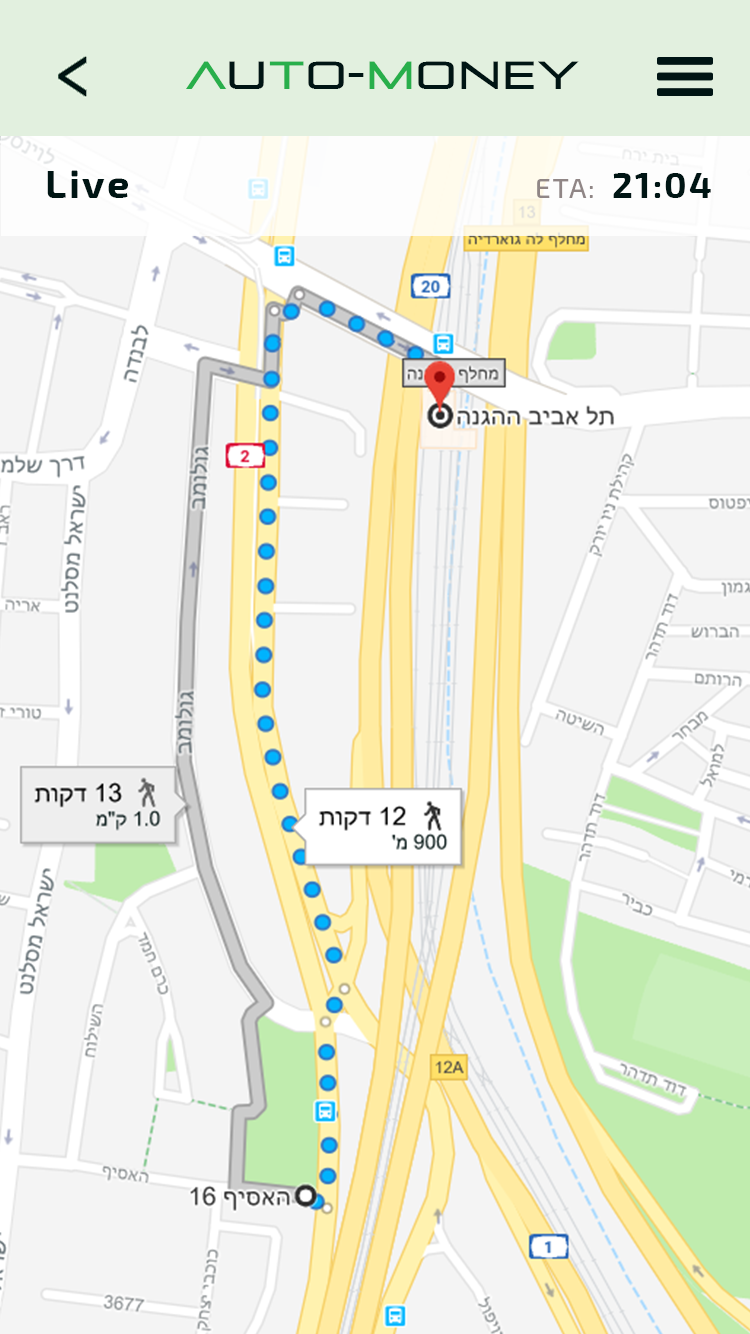
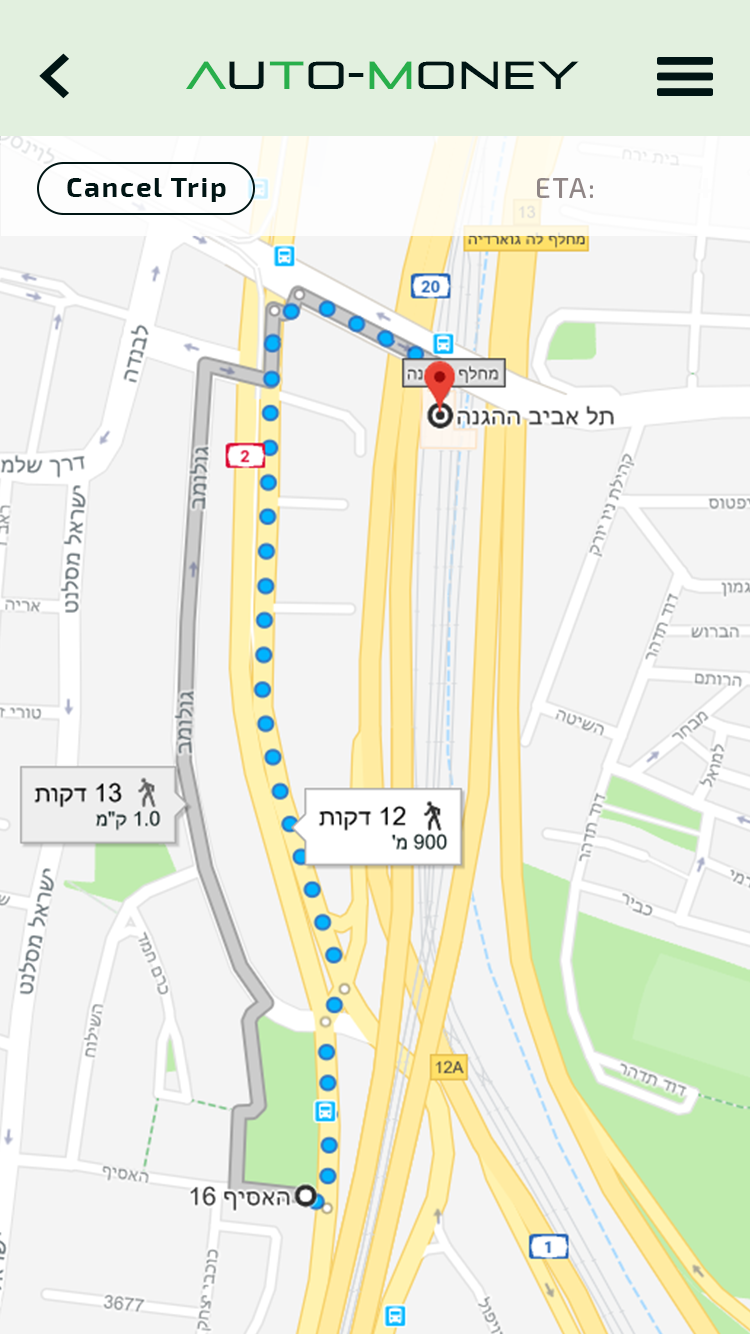
Added side menu

Changed region(s): [[0.0307, 0.1229, 0.3373, 0.1537], [0.7973, 0.1229, 0.9507, 0.1537], [0.0613, 0.0307, 0.1227, 0.0922]]

diff --git a/index.css b/index.css
@@ -59,7 +59,7 @@ body::before {
     opacity: 1;
 }
 
-.screen.active.no-toobar-buttons {
+.screen.active.no-toolbar-buttons {
     z-index: 6;
 }
 
@@ -108,6 +108,95 @@ body::before {
     background-image: url('images/screens/thank-you.png');
 }
 
+@keyframes fade-in {
+    0% {
+        opacity: 0;
+        z-index: 4;
+    }
+
+    100% {
+        opacity: 1;
+        z-index: 4;
+    }
+}
+
+@keyframes fade-out {
+    0% {
+        opacity: 1;
+        z-index: 4;
+    }
+
+    99% {
+        opacity: 0;
+        z-index: 4;
+    }
+
+    100% {
+        opacity: 0;
+        z-index: -1;
+    }
+}
+
+@keyframes slide-left {
+    from { left: 100%; }
+    to { left: 33.877777777777%; }
+}
+
+@keyframes slide-right {
+    from { left: 33.877777777777%; }
+    to { left: 100%; }
+}
+
+@keyframes make-visible {
+    0% {
+        visibility: hidden;
+    }
+
+    99% {
+        visibility: hidden;
+    }
+
+    100% {
+        visibility: visible;
+    }
+}
+
+#side-menu {
+    background-color: #00000088;
+    border: #777 solid 1px;
+    position: absolute;
+    top: 0; bottom: 0;
+    left: 0; right: 0;
+    overflow: hidden;
+    z-index: 4;
+    animation: make-visible 2s forwards, fade-out 1s forwards;
+    animation-delay: 0s, 1s;
+}
+
+#side-menu.active {
+    z-index: -1;
+    animation: make-visible 2s forwards, fade-in 1s forwards;
+    animation-delay: 0s, 0s;
+}
+
+#menu {
+    background-size: contain;
+    background-repeat: no-repeat;
+    background-image: url('images/side-menu.png');
+    width: 66.1333333333%;
+    height: 100%;
+    position: absolute;
+    top: 0; bottom: 0;
+    left: 33.877777777777%;
+    animation: slide-right 1s normal forwards;
+}
+
+#side-menu.active #menu {
+    left: 100%;
+    animation: slide-left 1s normal forwards;
+    animation-delay: 1s;
+}
+
 .clear {
     clear: both;
 }
@@ -128,6 +217,16 @@ body::before {
     top: 1%;
     left: 1.5%;
     z-index: 3;
+    width: 20%;
+    height: 8.5%;
+}
+
+
+#menu-button {
+    position: absolute;
+    top: 1%;
+    right: 1.5%;
+    z-index: 5;
     width: 20%;
     height: 8.5%;
 }

diff --git a/index.html b/index.html
@@ -13,7 +13,8 @@
         <div id="phone-container">
             <div id="phone-screen">
                 <div id="back"></div>
-                <div id="loader-screen" class="screen no-toobar-buttons active animate-fade">
+                <div id="menu-button"></div>
+                <div id="loader-screen" class="screen no-toolbar-buttons active animate-fade">
                     <div id="logo"></div>
                 </div>
                 <div id="main-screen" class="screen no-back animate-fade">
@@ -27,13 +28,13 @@
                         <div class="box"></div>
                     </div>
                 </div>
-                <div id="main-typing-screen" class="screen no-toobar-buttons">
+                <div id="main-typing-screen" class="screen no-toolbar-buttons">
                     <div class="search-box">
                         <div class="microphone"></div>
                     </div>
                     <div id="results"></div>
                 </div>
-                <div id="main-listening-screen" class="screen no-toobar-buttons"></div>
+                <div id="main-listening-screen" class="screen no-toolbar-buttons"></div>
                 <div id="trip-options-screen" class="screen">
                     <div id="trip-options">
                         <div class="box"></div>
@@ -59,6 +60,9 @@
                         <div id="very-good" class="rating"></div>
                     </div>
                     <div id="plan-another-trip"></div>
+                </div>
+                <div id="side-menu">
+                    <div id="menu"></div>
                 </div>
             </div>
         </div>

diff --git a/index.js b/index.js
@@ -31,6 +31,10 @@ function goBack() {
     goToScreen(lastScreen.startsWith('main-') ? screens.main : lastScreen);
 }
 
+function toggleSideMenu() {
+    document.getElementById('side-menu').classList.toggle('active');
+}
+
 setTimeout(function() {
     goToScreen(screens.main);
 
@@ -40,6 +44,7 @@ setTimeout(function() {
 }, 5000);
 
 document.getElementById('back').addEventListener('click', goBack);
+document.getElementById('menu-button').addEventListener('click', toggleSideMenu);
 
 document.querySelectorAll('.search-box').forEach(function(e) {
     e.addEventListener('click', function(e) {
